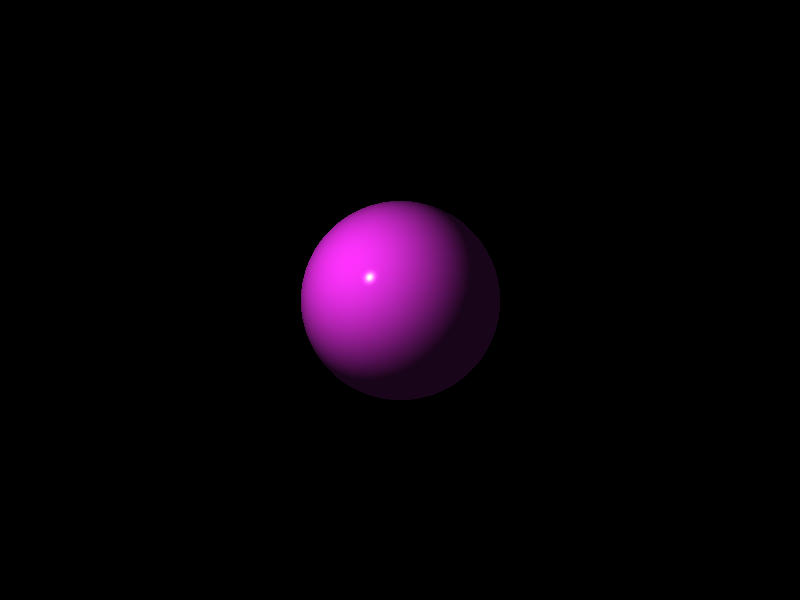
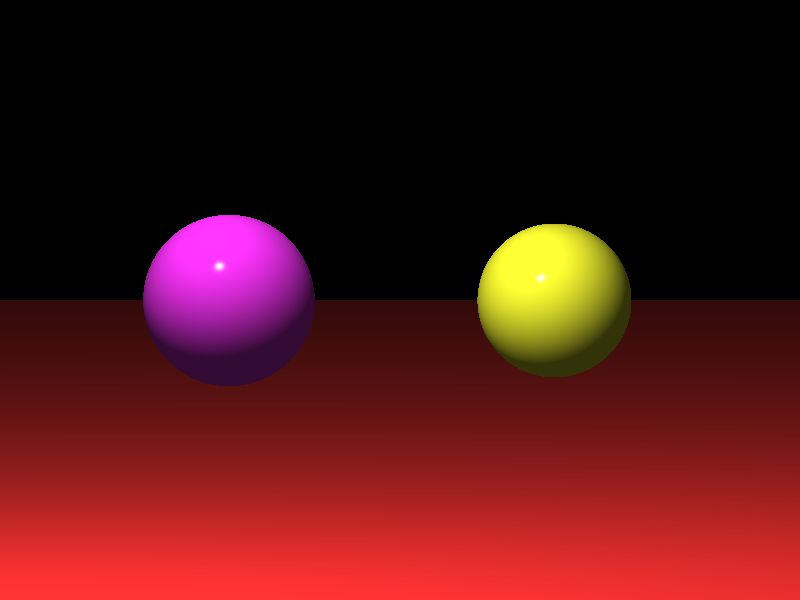
Support for planes

diff --git a/test/plane_tests.cpp b/test/plane_tests.cpp
@@ -5,7 +5,7 @@
 
 TEST(PlaneTest, CollisionPlaneInfiniteXYPerpendicular)
 {
-    plane p{tuple{0,0,0,POINT},tuple{0,0,1,VECTOR},0,0};
+    plane p{tuple{0,0,0,POINT},tuple{0,0,-1,VECTOR},0,0};
     ray r{tuple{0,0,-1, POINT}, tuple{0,0,1, VECTOR}};
 
     r.collide_with(&p);
@@ -36,7 +36,7 @@ TEST(PlaneTest, CollisionPlaneInfiniteXZPerpendicular)
 TEST(PlaneTest, CollisionPlaneInfiniteXYOffset)
 {
 
-    plane p{tuple{0,0,0,POINT},tuple{0,0,1,VECTOR},0,0};
+    plane p{tuple{0,0,0,POINT},tuple{0,0,-1,VECTOR},0,0};
     ray r{tuple{1,1,-1, POINT}, tuple{0,0,1, VECTOR}};
 
     r.collide_with(&p);
@@ -49,9 +49,25 @@ TEST(PlaneTest, CollisionPlaneInfiniteXYOffset)
     ASSERT_TRUE(is_equal(point.z, 0));
 }
 
+TEST(PlaneTest, CollisionPlaneInfiniteXZOffset)
+{
+
+    plane p{tuple{0,0,0,POINT},tuple{0,-1,0,VECTOR},0,0};
+    ray r{tuple{1,-1,1,POINT}, tuple{0,1,0, VECTOR}};
+
+    r.collide_with(&p);
+
+    ASSERT_TRUE(r.get_hit() != std::nullopt);
+
+    tuple point = r.position(r.get_hit()->t);
+    ASSERT_TRUE(is_equal(point.x, 1));
+    ASSERT_TRUE(is_equal(point.y, 0));
+    ASSERT_TRUE(is_equal(point.z, 1));
+}
+
 TEST(PlaneTest, CollisionPlaneInfiniteXYAngled)
 {
-    plane p{tuple{0,0,0,POINT},tuple{0,0,1,VECTOR},0,0};
+    plane p{tuple{0,0,0,POINT},tuple{0,0,-1,VECTOR},0,0};
     ray r{tuple{0,1,-1, POINT}, tuple{0,0,1, VECTOR}};
 
     r.collide_with(&p);
@@ -67,7 +83,7 @@ TEST(PlaneTest, CollisionPlaneInfiniteXYAngled)
 TEST(PlaneTest, CollisionPlaneInfiniteAngled)
 {
     plane p{tuple{0,0,0,POINT}, tuple{0,-sqrt(2)/2,-sqrt(2)/2, VECTOR},0,0};
-    ray r{tuple{0,-1,-1,POINT}, tuple{0,-sqrt(2)/2,-sqrt(2)/2, VECTOR}};
+    ray r{tuple{0,-1,-1,POINT}, tuple{0,sqrt(2)/2,sqrt(2)/2, VECTOR}};
 
     r.collide_with(&p);
 

diff --git a/src/ray.cpp b/src/ray.cpp
@@ -19,26 +19,39 @@ void ray::collide_with(std::vector<object*> *objects)
 {
 	for(std::vector<object*>::iterator it = objects->begin(); it < objects->end(); it++)
 		collide_with(*it);
+
+	//if (get_hit() != std::nullopt) {
+		//tuple pos = position(get_hit()->t);
+		////To avoid acne, move a little hit away from the object
+		//pos = pos + get_hit()->obj->get_unary_normal_at(pos).direction * 0.01;
+		//ray to_lightsource = lightsource.origin - pos;
+		//to_lightsource.collide_with(objects);
+		//if (to_lightsource.get_hit() != std::nullopt)
+			//get_hit()->inShadow = true;
+	//}
 }
 
 std::optional<intersection> ray::get_hit()
 {
-	intersection *current_min;
+	intersection *current_min = NULL;
 	std::vector<intersection>::iterator it;
 
 	if (collisions.size() == 0)
 		return std::nullopt;
 
 	for(it = collisions.begin(); it < collisions.end(); it++) {
-		if (it == collisions.begin()) {
+		if ((*it).t < 0)
+			continue;
+		if (!current_min)
 			current_min = &(*it);
-		} else {
-			if ((*it).t < current_min->t)
-				current_min = &(*it);
-		}
+		else if ((*it).t < current_min->t)
+			current_min = &(*it);
 	}
 
-	return std::make_optional<intersection>(*current_min);
+	if (!current_min)
+		return std::nullopt;
+	else
+		return std::make_optional<intersection>(*current_min);
 
 }
 
@@ -59,7 +72,7 @@ color ray::get_illumination(light &lightsource, bool inShadow)
 	/* First version: Phong's reflection model with no secondary rays. Whatever is hit first determines the result */
 	std::optional<intersection> hit = get_hit();
 
-	if (hit == std::nullopt)
+	if ((hit == std::nullopt) || (hit->t < 0))
 		return color{0, 0, 0};
 
 	tuple pos = position(hit->t);

diff --git a/src/tracer.cpp b/src/tracer.cpp
@@ -3,6 +3,7 @@
 #include "matrix.h"
 #include "ray.h"
 #include "sphere.h"
+#include "plane.h"
 #include "world.h"
 
 #define WIDTH 800
@@ -11,14 +12,16 @@
 int main(int argc, char **argv)
 {
 	camera cam{WIDTH, HEIGHT, 3000, tuple{0, 0, 0, POINT}, tuple{0, 0, 1, VECTOR}};
-	sphere s{tuple{WIDTH/4, HEIGHT/2, 1000, POINT}, 100, material{color{1, 0.2, 1}, 0.2, 0.9, 0.9, 200}};
+	sphere s{tuple{WIDTH/4, HEIGHT/2, 500, POINT}, 100, material{color{1, 0.2, 1}, 0.2, 0.9, 0.9, 200}};
 	sphere s2{tuple{3*WIDTH/4, HEIGHT/2, 900, POINT}, 100, material{color{1, 1, 0.2}, 0.2, 0.9, 0.9, 200}};
+	plane floor{tuple{0,HEIGHT,0,POINT}, tuple{0,-1,0,VECTOR},0,0,material{color{1, 0.2, 0.2}, 0.2, 0.9, 0.9, 200}};
 
 	world scene(&cam);
 
 	//Single lighsource
-	scene.lightsources.push_back(light{color{1, 1, 1}, tuple{WIDTH/4, HEIGHT/4, -200, POINT}});
+	scene.lightsources.push_back(light{color{1, 1, 1}, tuple{0, -HEIGHT, -400, POINT}});
 	//Single sphere
+	scene.objects.push_back(&floor);
 	scene.objects.push_back(&s);
 	scene.objects.push_back(&s2);
 

diff --git a/test/ray_tests.cpp b/test/ray_tests.cpp
@@ -178,6 +178,39 @@ TEST(RayTest, CalculateColorAtPerpendicularLightBehind)
 
 }
 
+TEST(RayTest, RotateRayX)
+{
+	ray r{tuple{0,0,0, POINT}, tuple{0,0,1,VECTOR}};
+
+	ray r2 = r.get_transformed(rotate_x(PI/4));
+
+	ASSERT_TRUE(is_equal(r2.direction.x, 0));
+	ASSERT_TRUE(is_equal(r2.direction.y, -sqrt(2)/2));
+	ASSERT_TRUE(is_equal(r2.direction.z, sqrt(2)/2));
+}
+
+TEST(RayTest, RotateRayY)
+{
+	ray r{tuple{0,0,0, POINT}, tuple{0,0,1,VECTOR}};
+
+	ray r2 = r.get_transformed(rotate_y(PI/4));
+
+	ASSERT_TRUE(is_equal(r2.direction.x, sqrt(2)/2));
+	ASSERT_TRUE(is_equal(r2.direction.y, 0));
+	ASSERT_TRUE(is_equal(r2.direction.z, sqrt(2)/2));
+}
+
+TEST(RayTest, RotateRayZ)
+{
+	ray r{tuple{0,0,0, POINT}, tuple{1,0,0,VECTOR}};
+
+	ray r2 = r.get_transformed(rotate_z(PI/4));
+
+	ASSERT_TRUE(is_equal(r2.direction.x, sqrt(2)/2));
+	ASSERT_TRUE(is_equal(r2.direction.y, sqrt(2)/2));
+	ASSERT_TRUE(is_equal(r2.direction.z, 0));
+}
+
 int main(int argc, char **argv)
 {
 	testing::InitGoogleTest(&argc, argv);

diff --git a/src/plane.cpp b/src/plane.cpp
@@ -12,13 +12,14 @@ std::vector<double> plane::get_collisions(ray &r)
        Rotation
     */
     //Translation: From origin to actual trcorner
+//    ray m_ray = r.get_translated(trcorner.x, -trcorner.y, -trcorner.z);
     ray m_ray = r.get_transformed(translation(trcorner.x, trcorner.y, trcorner.z).inverse());
     //Rotation: From 0,0,1 to normal
     //X axis
-    double angle = PI/2 + acos(normal.y);
+    double angle = -PI/2 - acos(normal.y);
     m_ray = m_ray.get_transformed(rotate_x(angle).inverse());
     //Y axis
-    angle = -PI/2 + acos(normal.x);
+    angle = PI/2 + acos(normal.x);
     m_ray = m_ray.get_transformed(rotate_y(angle).inverse());
 
     /* Get collision (if any!) */

diff --git a/src/world.cpp b/src/world.cpp
@@ -14,11 +14,15 @@ void world::render()
 	tuple vertical_stride = rotate_x(-PI/2)*cam->dir;
 
 	tuple origin = (cam->pos + horizontal_stride*(cam->screen->width/2) + vertical_stride*(cam->screen->height/2)) - cam->dir*cam->depth;
+	//TODO More elegant way to state origin as a pos
+	origin.type = POINT;
 	tuple pixel_pos = origin;
 	bool inShadow;
 	for (int j=0; j < cam->screen->height; j++) {
 		for (int i=0; i < cam->screen->width; i++) {
 			pixel_pos = cam->pos + vertical_stride*j + horizontal_stride*i;
+			//TODO More elegant way to state as a pos
+			pixel_pos.type = POINT;
 			ray r{origin, (pixel_pos - origin).unary()};
 
 			r.collide_with(&objects);

diff --git a/include/plane.h b/include/plane.h
@@ -10,6 +10,9 @@
 struct plane : object
 {
     plane (tuple trcorner, tuple normal, double width, double height) : trcorner(trcorner), normal(normal), width(width), height(height) {}
+    plane (tuple trcorner, tuple normal, double width, double height, material m) : trcorner(trcorner), normal(normal), width(width), height(height) {
+        mat = m;
+    }
 
     tuple trcorner;
     tuple normal;

diff --git a/include/ray.h b/include/ray.h
@@ -27,7 +27,9 @@ struct ray
 	std::vector<intersection> collisions;
 
 	tuple position(double t);
+
 	ray get_transformed(matrix transformation);
+
 	void collide_with(object *o);
 	void collide_with(std::vector<object*> *objects);
 	std::optional<intersection> get_hit();

diff --git a/test/matrix_tests.cpp b/test/matrix_tests.cpp
@@ -60,7 +60,7 @@ TEST(MatrixTest, SubMatrix)
 	matrix s = m.get_submatrix(2, 3);
 	matrix r{3};
 	r.set(2,2, 0.0);
-	
+
 	ASSERT_TRUE(s == r);
 
 }

diff --git a/src/sphere.cpp b/src/sphere.cpp
@@ -14,7 +14,7 @@ std::vector<double> sphere::get_collisions(ray &r)
 		if (!is_equal(t1, t2))
 			ret.push_back(t2);
 	}
-	
+
 	return ret;
 }
 

diff --git a/README.md b/README.md
@@ -6,7 +6,7 @@
 * [x] Rays intersecting spheres
 * [x] Light and Shadow
 * [X] Abstract camera and world
-* [ ] Support planes
+* [X] Support planes
 * [ ] Shadows
 * [ ] Cubes
 * [ ] Secondary reflections
